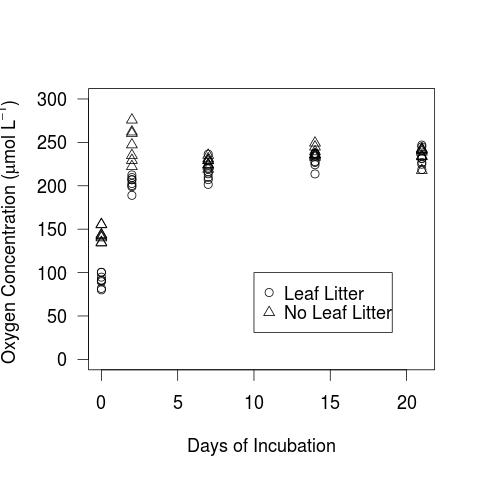
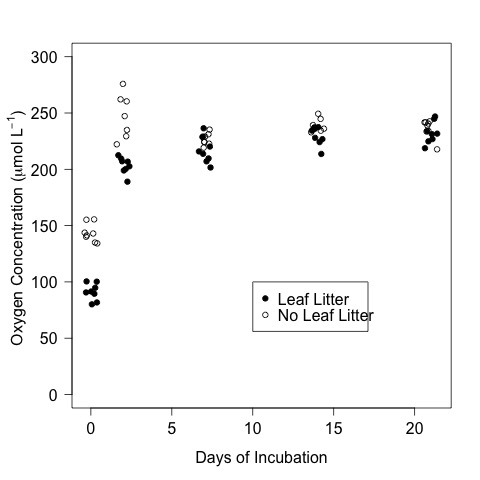
SOD Figures

diff --git a/lab_notebook/analysis/CPOM_Flux_SOD_Analysis.md b/lab_notebook/analysis/CPOM_Flux_SOD_Analysis.md
@@ -10,6 +10,7 @@
 * Modified 8 May 2015 - KF - alterd the repeated measures analysis
 * Modified 9 June 2015 - KF - reran all analyses based on the updated calculations of SOD with the more comprehensive bottle OM data.
 * Modified 12 June 2015 - KF - added analysis of the DO concentration in the bottles.
+* Modified 17 May 2016 - KF - created figure of area normalized SOD.
 
 ## Purpose
 
@@ -124,10 +125,10 @@ The decimal point is 1 digit(s) to the right of the |
 
 The subset of low DO values all come from the T-0 incubation day
 
-    par(las = 1, cex = 1.5)
-    plot(DO.T0 * 1000 ~ days.elap, data = sod, subset = CPOM == "yes", pch = 1, ylim = c(0, 300), ylab = expression(paste("Oxygen Concentration (", mu, "mol L"^{-1}, ") ")), xlab = "Days of Incubation")
-    points(DO.T0 * 1000 ~ days.elap, data = sod, subset = CPOM == "no", pch = 2)
-    legend(10, 100, c("Leaf Litter", "No Leaf Litter"), pch = c(1, 2))
+    par(las = 1, cex = 1, mar=c(5, 5, 3, 2))
+    plot(DO.T0 * 1000 ~ jitter(days.elap, 1), data = sod, subset = CPOM == "yes", pch = 19, ylim = c(0, 300), ylab = expression(paste("Oxygen Concentration (", mu, "mol L"^{-1}, ") ")), xlab = "Days of Incubation")
+    points(DO.T0 * 1000 ~ jitter(days.elap, 1), data = sod, subset = CPOM == "no", pch = 1)
+    legend(10, 100, c("Leaf Litter", "No Leaf Litter"), pch = c(19, 1))
     dev.copy(jpeg, "./output/plots/DO_by_day.jpg")
     dev.off()
 
@@ -278,6 +279,7 @@ in umol / (g OM) / h
 ~~~~                                                                                                                                         
                                                                                                                                          
 ### Plots
+#### Plot of OM Normalized SOD
 
     # Plot that shows the CPOM and Nut treatment effects 
     plot(sod.OM ~ days.elap, data = sod, subset = CPOM == "yes" & nutrient == "yes", ylim = c(0, 50), pch = 16, xlab = "Days of Incubation", ylab = expression(paste("SOD (", mu, "mol (g OM)"^{-1}, " h"^{-1}, ")")))
@@ -299,7 +301,23 @@ in umol / (g OM) / h
     dev.copy(jpeg, "./output/plots/SOD_OM_by_days.jpg")
     dev.off()
 
-![Area normalized SOD by days elapsed](../output/plots/SOD_OM_by_days.jpeg)
+![OM normalized SOD by days elapsed](../output/plots/SOD_OM_by_days.jpeg)
+
+#### Plot of Area-Normalized SOD
+
+    # Calculation of mean SOD by day and CPOM treatment for plot
+    sod.mean.CPOM <- c(mean(sod$sod.OM[sod$days.elap == 0 & sod$CPOM == "yes"]), mean(sod$sod.OM[sod$days.elap == 2 & sod$CPOM == "yes"]), mean(sod$sod.OM[sod$days.elap == 7 & sod$CPOM == "yes"]), mean(sod$sod.OM[sod$days.elap == 14 & sod$CPOM == "yes"]), mean(sod$sod.OM[sod$days.elap == 21 & sod$CPOM == "yes"])) 
+    sod.mean.ctl <- c(mean(sod$sod.OM[sod$days.elap == 0 & sod$CPOM == "no"]), mean(sod$sod.OM[sod$days.elap == 2 & sod$CPOM == "no"], na.rm = T), mean(sod$sod.OM[sod$days.elap == 7 & sod$CPOM == "no"]), mean(sod$sod.OM[sod$days.elap == 14 & sod$CPOM == "no"]), mean(sod$sod.OM[sod$days.elap == 21 & sod$CPOM == "no"])) 
+
+    # Plot of Area-normalized SOD by days of incubation 
+    par(las = 1, mar = c(6, 6, 3, 3))
+    plot(SOD ~ jitter(days.elap, 1), data = sod, subset = CPOM == "yes", ylim = c(0, 2.5), xlab = "Days of Incubation", ylab = expression(paste("SOD (m"^{-2}, " h"^{-1}, ")")), pch = 19, cex.axis = 1.5, cex.lab = 1.5, cex = 2)
+    points(SOD ~ jitter(days.elap, 1), data = sod, subset = CPOM == "no", pch = 1, cex = 2)
+    legend(12, 2.5, c("Leaf Litter  ", "No Leaf Litter  "), pch = c(19, 1), cex = 1)
+    dev.copy(jpeg, "./output/plots/SOD_by_days.jpg")
+    dev.off()
+
+![Area normalized SOD by days elapsed](../output/plots/SOD_by_days.jpeg)
 
 
 ### DO Repeated measures

diff --git a/lab_notebook/analysis/leached_litter_Spring_SOD_Analysis.md b/lab_notebook/analysis/leached_litter_Spring_SOD_Analysis.md
@@ -1,0 +1,45 @@
+# Analysis of the SOD calcualtions from the Spring Leached Litter Exp 
+
+## Spring 2016
+
+## Metadata
+
+* Code created 17 May 2016 
+
+## Purpose
+
+This code is to analyze the effect of the leached litter addition treatments on SOD. 
+
+## Code
+### Import Data
+
+Flux calculations can be found in [leached_litter_Spring_sod_calc_11feb2016.md](https://github.com/KennyPeanuts/CPOM_Flux/blob/master/lab_notebook/analysis/leached_litter_Spring_sod_calc_11feb2016.md) and [leached_litter_Spring_sod_calc_18feb2016.md](https://github.com/KennyPeanuts/CPOM_Flux/blob/master/lab_notebook/analysis/leached_litter_Spring_sod_calc_18feb2016.md)
+
+    sod_11feb <- read.table("./data/leached_litter_sp_sod_calculation_11feb2016.csv", header = T, sep = ",")
+    sod_18feb <- read.table("./data/leached_litter_sp_sod_calculation_18feb2016.csv", header = T, sep = ",")
+
+### Combine into a single dataset
+
+    sod <- rbind(sod_11feb, sod_18feb)
+    
+#### Create a date and incubation day variable
+
+    date <- c(rep("2016-02-11", 10), rep("2016-02-18", 10))
+    # the incubation was begun on 9 Feb 2016
+    days.elap <- c(rep(2, 10), rep(9, 10))
+
+#### Create as single combined data.frame
+
+    sod <- data.frame(date, days.elap, sod)
+
+## Analysis
+    
+    par(las = 1, mar = c(6, 6, 3, 3))
+    plot(SOD ~ jitter(days.elap, 0.7), data = sod, subset = treatment == "LS", ylim = c(0, 2.5), xlim = c(0, 21), xlab = "Days of Incubation", ylab = expression(paste("SOD (m"^{-2}, " h"^{-1}, ")")), pch = 19, cex.axis = 1.5, cex.lab = 1.5, cex = 2)
+    points(SOD ~ jitter(days.elap, 0.7), data = sod, subset = treatment == "S", pch = 1, cex = 2)
+    legend(12, 2.5, c("Leaf Litter  ", "No Leaf Litter  "), pch = c(19, 1), cex = 1)
+    dev.copy(jpeg, "./output/plots/leached_litter_SOD_by_days.jpg")
+    dev.off()
+
+
+![Area normalized SOD by days elapsed](../output/plots/leached_litter_SOD_by_days.jpeg)
